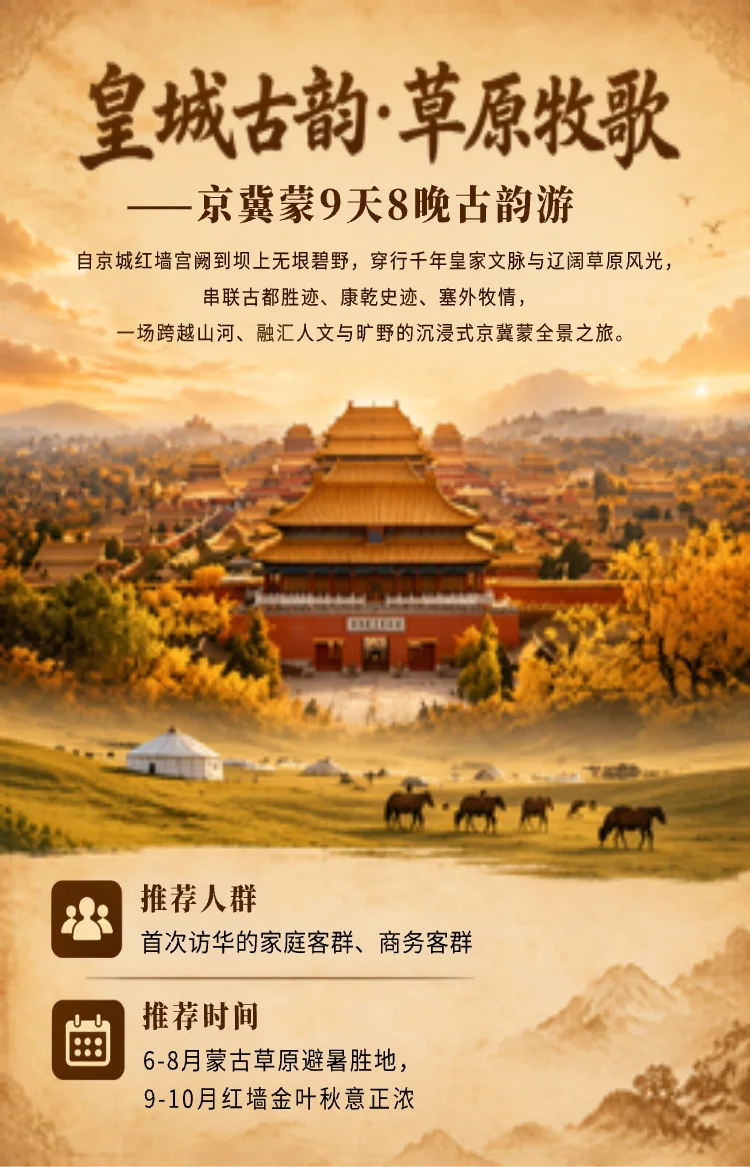
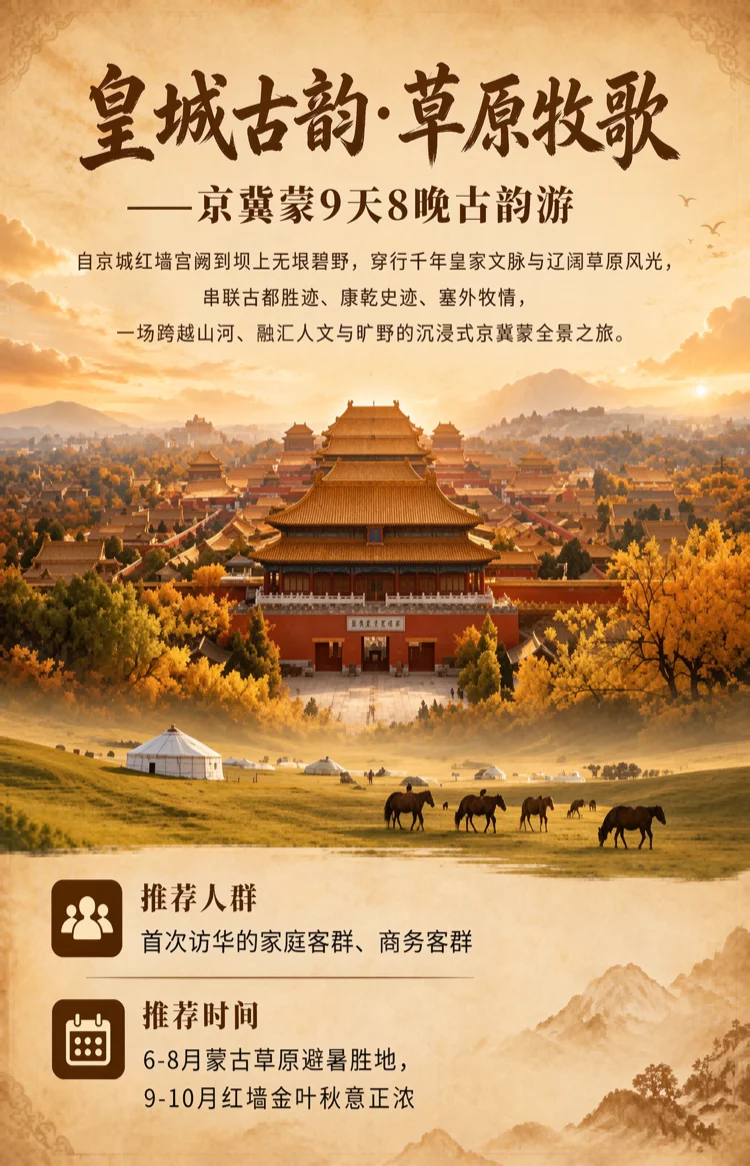
英文站文案按终稿文档全量替换
- 5 个页面 + products.js：分类名/产品卡/关于/优势/表单/详情页标签英文按《文旅官网EN_CN-final.docx》
- 邮箱全站统一为 info@safarark.com
- 详情页行程长图不变

diff --git a/products.js b/products.js
@@ -27,12 +27,12 @@ var PRODUCTS = [
    image:'./site-source/images/imperial-city.webp',
    itin_note:'以下为参考行程，确认出行日期后，顾问会为您细化每日安排。',
    itin_note_en:'This is a reference itinerary; once your travel dates are confirmed, your consultant will finalize the daily schedule.',
-   itin_imgs:['./site-source/images/详情页/imperial-grassland/hg-01-cover.webp?v=2',
+   itin_imgs:['./site-source/images/详情页/imperial-grassland/hg-01-cover.webp?v=3',
               './site-source/images/详情页/imperial-grassland/hg-02-highlights.webp?v=2',
               './site-source/images/详情页/imperial-grassland/hg-03-day1-3.webp?v=2',
               './site-source/images/详情页/imperial-grassland/hg-04-day4-6.webp?v=2',
               './site-source/images/详情页/imperial-grassland/hg-05-day7-9.webp?v=2'],
-   itin_imgs_en:['./site-source/images/详情页/imperial-grassland/hg-en-01-cover.webp?v=4',
+   itin_imgs_en:['./site-source/images/详情页/imperial-grassland/hg-en-01-cover.webp?v=5',
               './site-source/images/详情页/imperial-grassland/hg-en-02-highlights.webp?v=5',
               './site-source/images/详情页/imperial-grassland/hg-en-03-day1.webp?v=4',
               './site-source/images/详情页/imperial-grassland/hg-en-04-day2.webp?v=4',
